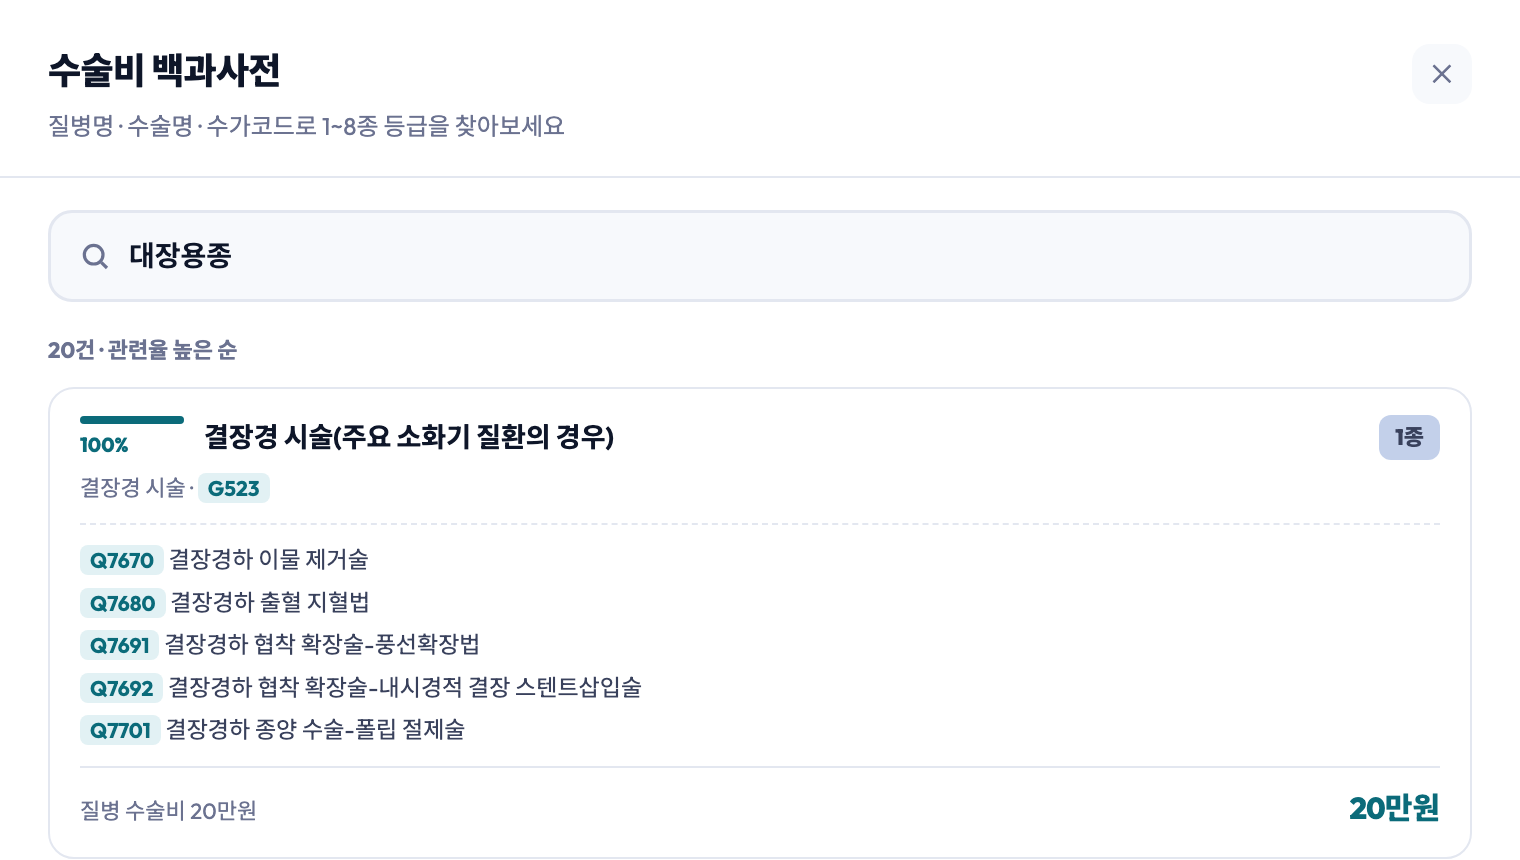
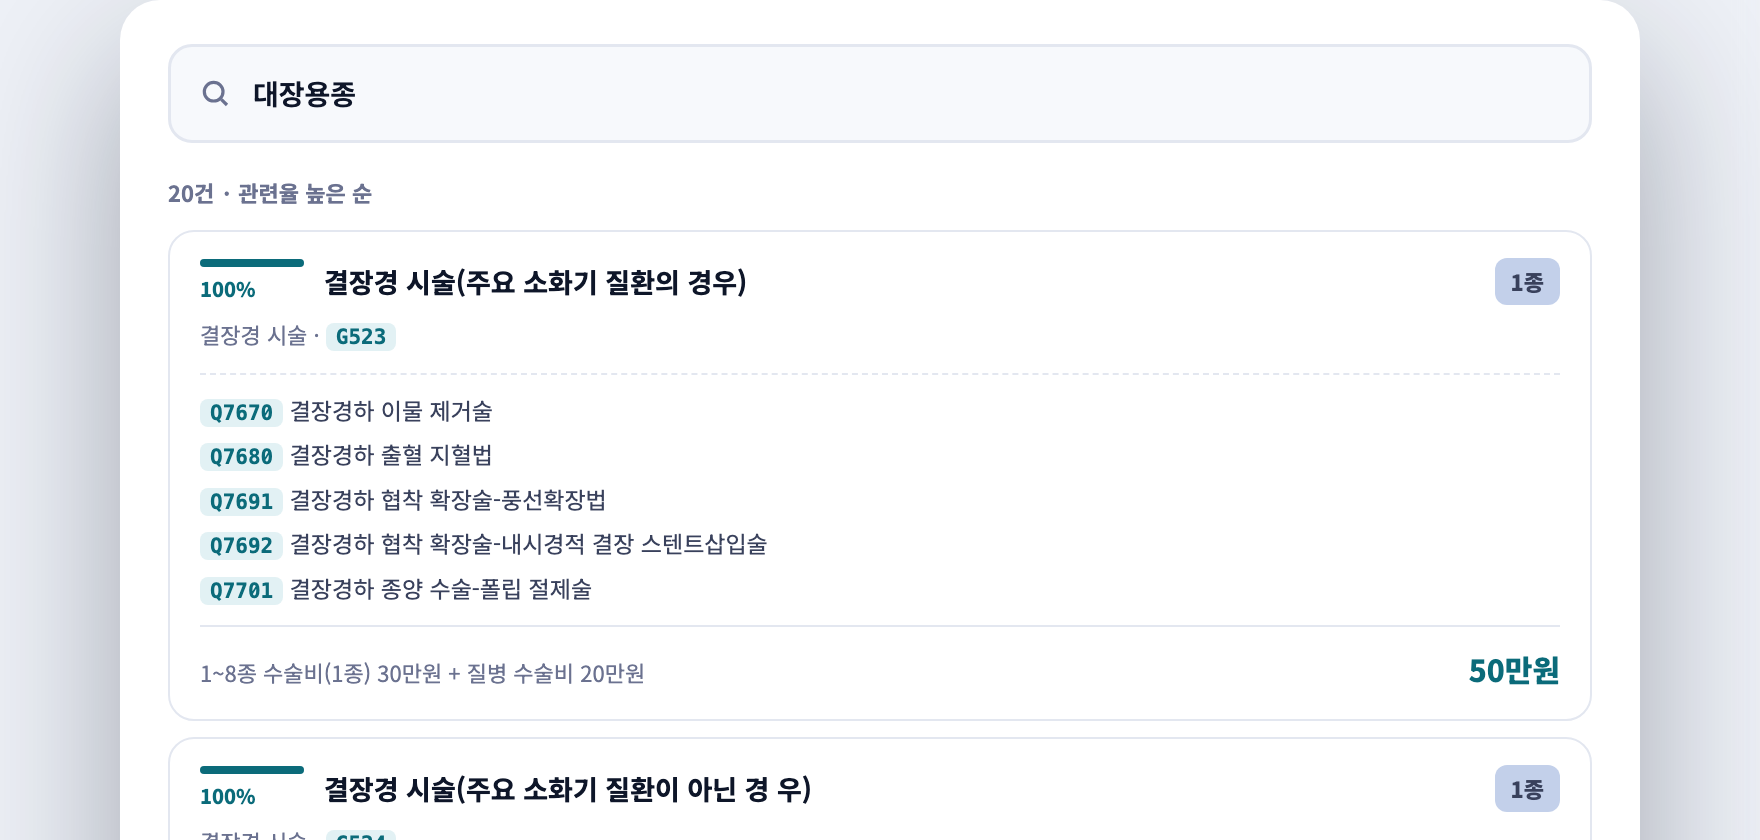
docs: 패치노트 v.0831 추가, 튜토리얼 뇌·심장/검색 섹션 갱신
패치노트
- v.0831 항목 신설(1~8종 수술 검색 출시 / 뇌·심장 카드 개편 / 인사이트·튜토리얼)
- LATEST 배지와 점프 pill을 v.0831로 이동, v.0826은 접힌 항목으로 전환
- CHANGELOG.md에 같은 내용을 기술 기준으로 정리

튜토리얼(about.html)
- 뇌·심장 섹션을 동심원 기준 설명에서 카드 레이아웃 기준으로 재작성
- 「1~8종 수술 검색」 섹션 신설 + 목차에 추가
- 스마트 가입제안서 카드의 뇌·심장/수술비 설명을 현재 화면에 맞게 수정

스크린샷
- cc_rings.png(동심원) 삭제 → cc_cards.png / cc_journey.png 신규 캡처
- dict_demo.png 재캡처: 옛 "수술비 백과사전" 제목이 남아 있었고,
  모달 머리말이 액자처럼 겹쳐 보여 검색창~결과 구간만 담도록 다시 찍음
  (제안서를 올린 상태의 계산 금액이 보이게)

Changed region(s): [[0.0, 0.0, 1.0, 1.0], [0.8349, 0.7738, 0.8967, 0.8357]]

diff --git a/patchnote.html b/patchnote.html
@@ -208,7 +208,8 @@
     <!-- JUMP PILLS -->
     <div class="jump-wrap">
       <div class="jump-inner">
-        <a class="jump-pill active" href="#v0826">v.0826</a>
+        <a class="jump-pill active" href="#v0831">v.0831</a>
+        <a class="jump-pill" href="#v0826">v.0826</a>
         <a class="jump-pill" href="#v0825">v.0825</a>
         <a class="jump-pill" href="#v0706">v.0706</a>
         <a class="jump-pill" href="#v0630">v.0630</a>
@@ -224,16 +225,122 @@
     <!-- TIMELINE -->
     <div class="timeline">
 
-      <!-- v.0826 -->
-      <div class="v-entry open latest-entry" id="v0826">
+      <!-- v.0831 -->
+      <div class="v-entry open latest-entry" id="v0831">
         <div class="v-dot latest"></div>
         <div class="v-card latest-card">
           <div class="v-header" onclick="toggleEntry(this.closest('.v-entry'))">
             <div class="v-header-left">
               <div class="v-meta">
+                <span class="v-ver">v.0831</span>
+                <span class="v-date">2026.08.31</span>
+                <span class="v-latest-badge">LATEST</span>
+              </div>
+              <div class="v-subtitle">"어느 담보에서 얼마가 나오는지, 카드마다 펼쳐서"</div>
+              <div class="v-summary">
+                <span class="tag tag-new">NEW</span>
+              </div>
+            </div>
+            <span class="v-chevron">▾</span>
+          </div>
+          <div class="v-body">
+
+            <div class="change-section">
+              <span class="cs-label">1~8종 수술 검색 출시</span>
+              <div class="change-list">
+                <div class="change-item">
+                  <span class="tag tag-new">NEW</span>
+                  <p class="change-text"><strong>상단에 &lsquo;1~8종 검색&rsquo; 버튼이 생겼어요</strong><br>
+                  수술비 목록에 없는 수술은 이제 직접 찾아보실 수 있습니다. 고객이 말한 병명을 그대로 넣으면 <strong>관련 수술과 수가코드, 몇 종인지</strong>가 나옵니다. 제안서를 올린 상태라면 <strong>그 고객 가입금액으로 계산한 금액</strong>까지 같이 붙어요. &lsquo;대장용종&rsquo; 한 단어로 결장경 시술(1종)과 폴립 절제술 코드가 한 번에 나옵니다.</p>
+                </div>
+                <div class="change-item">
+                  <span class="tag tag-new">NEW</span>
+                  <p class="change-text"><strong>근거는 약관 별표16 = KDRG입니다</strong><br>
+                  약관 2-109 제3조②에 <strong>별표16의 수술·시술 코드가 곧 KDRG 분류</strong>라고 적혀 있습니다. 그 대응표를 그대로 옮겨 왔기 때문에, 화면에 나온 등급을 약관에서 되짚어 확인하실 수 있어요.</p>
+                </div>
+                <div class="change-item">
+                  <span class="tag tag-improve">IMPROVE</span>
+                  <p class="change-text"><strong>정확히 안 맞아도 가까운 걸 보여드려요</strong><br>
+                  처음에는 딱 맞는 단어를 넣어야만 결과가 나와서, 조금만 달라도 <strong>&lsquo;검색 결과 없음&rsquo;</strong>이 떴습니다. 이제 비슷한 정도를 따져 <strong>가까운 항목을 대신 보여드립니다</strong>. 질병 TOP 30·수술 TOP 30으로 검증하면서 &lsquo;스텐트&rsquo;, &lsquo;협심증&rsquo;, &lsquo;하지정맥류&rsquo;처럼 자주 쓰는 말도 찾아가도록 동의어를 채웠어요.</p>
+                </div>
+                <div class="change-item">
+                  <span class="tag tag-new">NEW</span>
+                  <p class="change-text"><strong>면책 안내를 항상 띄워 둡니다</strong><br>
+                  참고용 자료라는 점과 함께, <strong>미용 목적·피임 목적·검사 및 진단 목적의 수술은 코드가 검색돼도 지급 대상이 아니라는</strong> 안내를 화면 하단에 고정해 뒀습니다. 목적이 애매한 시술은 약관 원문을 꼭 확인해 주세요.</p>
+                </div>
+              </div>
+            </div>
+
+            <div class="change-section">
+              <span class="cs-label">뇌·심장 화면 개편</span>
+              <div class="change-list">
+                <div class="change-item">
+                  <span class="tag tag-improve">IMPROVE</span>
+                  <p class="change-text"><strong>동심원을 걷어내고 카드로 바꿨어요</strong><br>
+                  포함 관계를 원으로 그리다 보니 정작 <strong>어느 담보에서 얼마가 나오는지</strong>가 잘 안 보였습니다. 이제 암 보장 화면처럼 카드로 펼칩니다. <strong>치료행위</strong>(수술·혈전용해·혈전제거)가 윗줄, <strong>질환별 진단비</strong>가 아랫줄이에요.</p>
+                </div>
+                <div class="change-item">
+                  <span class="tag tag-new">NEW</span>
+                  <p class="change-text"><strong>카드 안에 세부 담보를 그대로 폅니다</strong><br>
+                  큰 금액만 보고 오해하지 않도록, 특정치료비에서 얼마·통합치료비에서 얼마인지 카드 안에 줄줄이 적었습니다. 통합치료비는 <strong>연 한도와 보장주기</strong>까지 담보명 아래 붙였어요 — 수술은 <strong>매회보장</strong>, 혈전용해·혈전제거는 <strong>연 1회보장</strong>입니다.</p>
+                </div>
+                <div class="change-item">
+                  <span class="tag tag-new">NEW</span>
+                  <p class="change-text"><strong>뇌와 심장을 색으로 갈라 묶었어요</strong><br>
+                  진단비 카드를 <strong>파란 상자(뇌 계열)</strong>와 <strong>분홍 상자(심장 계열)</strong>로 나눠 담았습니다. 윗줄 순환계 치료 담보는 이 화면에서 가장 넓게 받아내는 축이라 <strong>금빛 테두리</strong>로 세웠고요. 미가입 담보는 회색으로 남겨 무엇이 비어 있는지도 같이 보입니다.</p>
+                </div>
+                <div class="change-item">
+                  <span class="tag tag-improve">IMPROVE</span>
+                  <p class="change-text"><strong>중환자실은 치료행위 옆으로 옮겼어요</strong><br>
+                  중환자실 치료비는 수술·혈전용해·혈전제거에 딸려 나오는 담보라, 따로 떨어져 있는 것보다 <strong>같은 줄 옆칸</strong>에 붙는 게 읽기 편합니다. 절반 폭으로 넣어 네 칸이 한 줄에 들어갑니다.</p>
+                </div>
+                <div class="change-item">
+                  <span class="tag tag-improve">IMPROVE</span>
+                  <p class="change-text"><strong>치료 경로는 해당 담보가 있을 때만 나와요</strong><br>
+                  검사부터 재활까지 이어지는 경로는 <strong>순환계 통합치료비</strong> 가입자에게만 해당됩니다. 담보가 없으면 이 줄은 아예 표시되지 않아요.</p>
+                </div>
+                <div class="change-item">
+                  <span class="tag tag-improve">IMPROVE</span>
+                  <p class="change-text"><strong>겹치던 표를 하나로 합쳤어요</strong><br>
+                  진단비 막대그래프와 수술비 구성 표가 위 카드와 같은 내용을 반복하고 있었습니다. 둘을 걷어내고 <strong>「보장금액 합계」</strong> 하나로 정리했어요. 이 설계에서 한 번의 사고로 검토 가능한 금액만 남깁니다.</p>
+                </div>
+                <div class="change-item">
+                  <span class="tag tag-fix">FIX</span>
+                  <p class="change-text"><strong>질환 전용 수술비를 놓치지 않아요</strong><br>
+                  뇌혈관질환 수술비처럼 <strong>특정 질환에만 붙는 치료·수술비</strong>가 어디에도 표시되지 않고 있었습니다. 이제 해당 진단비 카드에 <strong>&lsquo;이 질환 전용 치료·수술비 OOO 별도&rsquo;</strong>로 적어드립니다.</p>
+                </div>
+              </div>
+            </div>
+
+            <div class="change-section">
+              <span class="cs-label">인사이트 · 튜토리얼</span>
+              <div class="change-list">
+                <div class="change-item">
+                  <span class="tag tag-new">NEW</span>
+                  <p class="change-text"><strong>인사이트에 수술비 · 뇌심 편을 더했어요</strong><br>
+                  <strong>1~8종과 기존 수술비의 차이</strong>(흡인·천자 같은 시술류까지 보상하는 &lsquo;수술의 정의&rsquo; 차이)와, <strong>혈전용해 · 혈전제거 · 수술</strong>이 각각 어떤 치료인지 정리했습니다. 기계적 혈전제거술 종류와 에크모 같은 중환자실 치료도 함께 담았어요.</p>
+                </div>
+                <div class="change-item">
+                  <span class="tag tag-improve">IMPROVE</span>
+                  <p class="change-text"><strong>튜토리얼 화면과 사진을 새로 찍었어요</strong><br>
+                  뇌·심장 설명이 예전 동심원 기준이라 지금 화면과 달랐습니다. 카드 레이아웃으로 다시 쓰고 사진도 새로 찍었어요. <strong>1~8종 수술 검색</strong> 사용법도 튜토리얼에 새 장으로 들어갔습니다.</p>
+                </div>
+              </div>
+            </div>
+
+          </div>
+        </div>
+      </div>
+
+      <!-- v.0826 -->
+      <div class="v-entry" id="v0826">
+        <div class="v-dot"></div>
+        <div class="v-card">
+          <div class="v-header" onclick="toggleEntry(this.closest('.v-entry'))">
+            <div class="v-header-left">
+              <div class="v-meta">
                 <span class="v-ver">v.0826</span>
                 <span class="v-date">2026.08.26</span>
-                <span class="v-latest-badge">LATEST</span>
               </div>
               <div class="v-subtitle">"뇌랑 심장, 어디까지 나오는지 한 장에"</div>
               <div class="v-summary">

diff --git a/about.html b/about.html
@@ -472,12 +472,12 @@
       <div class="tabcard on fu" style="transition-delay:.07s">
         <span class="tabpill">NEW</span>
         <p class="tabt">수술비</p>
-        <p class="tabd">많이 하는 수술 30종이 각각 얼마까지 검토 가능한지 금액으로 나옵니다.</p>
+        <p class="tabd">많이 하는 수술 32종이 각각 얼마까지 검토 가능한지 금액으로 나옵니다. 목록에 없는 수술은 <strong>1~8종 검색</strong>으로 찾습니다.</p>
       </div>
       <div class="tabcard on fu" style="transition-delay:.14s">
         <span class="tabpill">NEW</span>
         <p class="tabt">뇌·심장</p>
-        <p class="tabd">뇌와 심장을 동심원으로 그려, 어느 질환이 얼마를 덮는지 한눈에 보여줍니다.</p>
+        <p class="tabd">치료행위와 질환별 진단비를 카드로 갈라, 어느 담보에서 얼마가 나오는지 펼쳐 보여줍니다.</p>
       </div>
     </div>
   </section>
@@ -520,41 +520,95 @@
     </div>
   </section>
 
-  <!-- 뇌심장 -->
-  <section class="section fu" id="s-circ">
-    <span class="eyebrow">BRAIN &amp; HEART</span>
-    <h2 class="stitle">뇌와 심장은,<br>넓을수록 좋은 보장입니다</h2>
+  <!-- 1~8종 수술 검색 -->
+  <section class="section fu" id="s-dict">
+    <span class="eyebrow">SEARCH</span>
+    <h2 class="stitle">목록에 없는 수술은,<br>직접 찾아보세요</h2>
     <p class="slead">
-      뇌출혈 ⊂ 뇌졸중 ⊂ 뇌혈관질환. 급성심근경색 ⊂ 허혈성심장질환.
-      말로 설명하면 어려운 포함 관계를 동심원으로 그려, 바깥 고리가 넓을수록 좋다는 걸 눈으로 보여줍니다.
+      상단 <strong>1~8종 검색</strong>을 누르면 검색창이 열립니다.
+      고객이 말한 병명 그대로 넣으면 관련 수술과 <strong>수가코드 · 몇 종인지</strong>가 나오고,
+      제안서를 올린 상태라면 <strong>그 고객 가입금액으로 계산한 금액</strong>까지 함께 붙습니다.
     </p>
 
     <div class="shotwrap">
-      <div class="shot"><img src="ABOUT/cc_rings.png" alt="뇌·심장 한눈에 보기 — 뇌와 심장 모양 동심원과 치료 행위별 금액"></div>
-      <p class="shotcap">뇌는 뇌 모양으로, 심장은 하트 모양으로. 각 고리 안에 검토 가능한 최대 금액이 들어갑니다.</p>
+      <div class="shot"><img src="ABOUT/dict_demo.png" alt="1~8종 수술 검색 — ‘대장용종’ 검색 결과와 수가코드, 등급, 금액"></div>
+      <p class="shotcap">‘대장용종’ 한 단어로 결장경 시술(1종)과 폴립 절제술 수가코드, 계산된 50만원까지.</p>
     </div>
 
     <div class="plist">
       <div class="pitem fu">
         <span class="pnum">1</span>
-        <p class="ptxt"><b>가장 바깥 고리 = 최대 금액</b> — 그 질환으로 치료·수술받았을 때
-        검토 가능한 금액(치료비 + 수술비)입니다. 안쪽 고리는 전용 담보가 있을 때만 더해집니다.</p>
+        <p class="ptxt"><b>고객이 말한 그대로</b> — ‘대장용종’, ‘디스크’, ‘스텐트’처럼 흔히 쓰는 말도
+        약관 용어로 바꿔 찾습니다. 수가코드(Q7701)를 직접 넣어도 됩니다.</p>
       </div>
       <div class="pitem fu" style="transition-delay:.06s">
         <span class="pnum">2</span>
-        <p class="ptxt"><b>특정 순환계 질환 치료비를 강조</b> — 41개 질병코드를 통째로 덮는 가장 넓은 담보입니다.
-        옆의 <strong>?</strong>를 누르면 어떤 코드가 포함되는지 전부 확인할 수 있습니다.</p>
+        <p class="ptxt"><b>관련율로 판단하세요</b> — 같은 시술이 여러 분류에 걸칠 수 있어서,
+        검색어에 가까운 순으로 <strong>관련율</strong>을 붙여 정렬합니다.
+        정확히 맞는 항목이 없어도 <strong>가까운 것들을 대신 보여드립니다</strong>.</p>
       </div>
       <div class="pitem fu" style="transition-delay:.12s">
         <span class="pnum">3</span>
-        <p class="ptxt"><b>수술 · 혈전용해 · 혈전제거</b> — 치료 행위별로 얼마가 나오는지 카드로 표시하고,
-        수술비 계열(질병수술비 · 1~5종 · N대질병)을 합산해 함께 보여줍니다.</p>
+        <p class="ptxt"><b>근거는 KDRG</b> — 약관 별표16의 수술·시술 코드가 곧 KDRG 분류입니다.
+        그 대응표를 그대로 옮겨 왔기 때문에, 화면의 등급을 약관에서 되짚어 확인할 수 있습니다.</p>
+      </div>
+      <div class="pitem fu" style="transition-delay:.18s">
+        <span class="pnum">4</span>
+        <p class="ptxt"><b>참고용입니다</b> — 실제 지급은 가입 시점의 약관과 KDRG 버전, 급여 여부에 따라 달라집니다.
+        <strong>미용 · 피임 · 검사 목적의 수술은 코드가 검색돼도 지급 대상이 아닙니다.</strong>
+        화면 하단에도 같은 안내를 항상 띄워 둡니다.</p>
+      </div>
+    </div>
+  </section>
+
+  <!-- 뇌심장 -->
+  <section class="section fu" id="s-circ">
+    <span class="eyebrow">BRAIN &amp; HEART</span>
+    <h2 class="stitle">뇌와 심장은,<br>담보 한 장씩 펼쳐 봅니다</h2>
+    <p class="slead">
+      순환계는 담보 이름이 서로 닮아 어느 게 어디서 나오는지 헷갈립니다.
+      그래서 <strong>치료행위</strong>와 <strong>질환별 진단비</strong>를 카드로 갈라 놓고,
+      카드마다 그 금액을 이루는 <strong>세부 담보를 그대로 펼쳐</strong> 보여드립니다.
+    </p>
+
+    <div class="shotwrap">
+      <div class="shot"><img src="ABOUT/cc_cards.png" alt="뇌·심장 보장 구조 — 치료행위 카드 4개와 뇌 계열·심장 계열로 묶인 진단비 카드"></div>
+      <p class="shotcap">윗줄은 금빛 테두리로 세운 순환계 치료 담보, 아랫줄은 뇌 계열(파랑) · 심장 계열(분홍)로 묶은 진단비입니다.</p>
+    </div>
+
+    <div class="plist">
+      <div class="pitem fu">
+        <span class="pnum">1</span>
+        <p class="ptxt"><b>치료행위별로 한 카드씩</b> — <strong>수술 · 혈전용해 · 혈전제거</strong>는
+        같은 사고라도 금액이 달라서 합치지 않았습니다. 옆에 <strong>중환자실 치료비</strong>를
+        절반 폭으로 붙여, 네 칸이 한 줄에 들어옵니다.</p>
+      </div>
+      <div class="pitem fu" style="transition-delay:.06s">
+        <span class="pnum">2</span>
+        <p class="ptxt"><b>금액의 출처가 카드 안에</b> — 특정치료비에서 얼마, 통합치료비에서 얼마인지
+        줄줄이 적혀 있습니다. 통합치료비는 <strong>연 한도와 보장주기</strong>(수술은 매회, 혈전용해·혈전제거는 연 1회)까지
+        담보명 아래 붙여, 큰 금액만 보고 오해하는 일이 없게 했습니다.</p>
+      </div>
+      <div class="pitem fu" style="transition-delay:.12s">
+        <span class="pnum">3</span>
+        <p class="ptxt"><b>뇌와 심장을 색으로 갈라</b> — 진단비 카드를 파란 상자(뇌 계열)와
+        분홍 상자(심장 계열)로 묶었습니다. <strong>미가입 담보는 회색</strong>으로 남겨두어,
+        무엇이 비어 있는지도 같이 보입니다.</p>
       </div>
       <div class="pitem fu" style="transition-delay:.18s">
         <span class="pnum">4</span>
         <p class="ptxt"><b>놓치기 쉬운 구멍도 알려드립니다</b> — 예를 들어 뇌졸중 분류표에는 I64(상세불명 뇌졸중)가
         없습니다. 이런 함정은 화면에 경고로 띄웁니다.</p>
       </div>
+    </div>
+
+    <div class="shotwrap">
+      <div class="shot"><img src="ABOUT/cc_journey.png" alt="치료 경로 — 검사·약물·치료·수술·재활 5단계 지급 한도"></div>
+      <p class="shotcap">
+        <strong>순환계 통합치료비</strong>에 가입돼 있을 때만 나오는 화면입니다.
+        MRI·CT부터 항응고제, 에크모, 전문재활치료까지 검사에서 재활까지 이어지는 금액을 약관 지급표 그대로 폅니다.
+        해당 담보가 없으면 이 줄은 아예 표시되지 않습니다.
+      </p>
     </div>
   </section>
 
@@ -787,6 +841,7 @@
     { id: 's-why',      label: '왜 이 도구인가' },
     { id: 's-smart',    label: '스마트 가입제안서 OPEN' },
     { id: 's-surgery',  label: '수술비 한눈에 보기' },
+    { id: 's-dict',     label: '1~8종 수술 검색' },
     { id: 's-circ',     label: '뇌·심장 한눈에 보기' },
     { id: 's-pdf',      label: '전체 PDF 저장' },
     { id: 's-how',      label: '사용 방법 (3 Step)' },

diff --git a/js/surgery_dict.js b/js/surgery_dict.js
@@ -325,7 +325,7 @@ function dictTutorialHtml() {
         </ol>
         <div class="sd-tut-shot">
           <img src="ABOUT/dict_demo.png" alt="‘대장용종’으로 검색한 결과 예시">
-          <span>‘대장용종’ 검색 — 결장경 시술(1종)과 폴립 절제술 수가코드가 함께 나옵니다.</span>
+          <span>‘대장용종’ 검색 — 결장경 시술(1종)과 폴립 절제술 수가코드, 그리고 그 고객 가입금액으로 계산한 금액까지.</span>
         </div>
         <div class="sd-quick">
           <span>바로 해보기</span>

diff --git a/index.html b/index.html
@@ -840,7 +840,7 @@
     <script src="js/circulatory_renderer.js?v=20260831g"></script>
     <script src="js/surgery_renderer.js?v=20260826f"></script>
     <script src="js/surgery_dict_data.js?v=20260826a"></script>
-    <script src="js/surgery_dict.js?v=20260826d"></script>
+    <script src="js/surgery_dict.js?v=20260831a"></script>
     <script src="js/ui_renderer.js?v=20260826p"></script>
     <script src="js/main.js?v=20260826a"></script>
 

diff --git a/CHANGELOG.md b/CHANGELOG.md
@@ -2,6 +2,16 @@
 
 프로젝트의 주요 변경 사항 및 업데이트 내역입니다.
 
+## [2026-08-31] 1~8종 수술 검색 · 뇌·심장 카드 개편
+- **기능 추가**: `1~8종 수술 검색` 모달. 질병명·수술명·수가코드로 검색하면 관련 수술과 ADRG/수가코드, 1~8종 등급, 제안서 업로드 상태에서는 가입금액 기준 계산액까지 표시. 근거는 약관 2-109 제3조②(별표16 수술·시술 코드 = KDRG ADRG).
+- **기능 추가**: 검색 결과가 없을 때 bigram Dice 유사도로 근접 항목을 제시하는 fuzzy 폴백. 질병 TOP 30 / 수술 TOP 30 회귀 테스트로 검증하고 동의어 보강.
+- **기능 추가**: 모달 하단 고정 면책 안내(참고용, 미용·피임·검사 목적 수술 지급 제외).
+- **UI 개편**: 뇌·심장 동심원 → 카드 그리드. 치료행위(수술·혈전용해·혈전제거) + 중환자실 치료비를 한 줄(`2fr 2fr 2fr 1fr`)에 배치하고 금빛 테두리로 강조. 질환별 진단비는 뇌 계열(파랑) / 심장 계열(분홍) 상자로 분리.
+- **기능 추가**: 카드 안에 금액을 구성하는 세부 담보를 전개. 통합치료비 행에는 연 한도와 보장주기(수술=매회 / 혈전용해·혈전제거=연 1회) 병기.
+- **기능 추가**: 질환 전용 치료·수술비(예: `뇌혈관질환 수술비`)를 해당 진단비 카드에 별도 표기.
+- **정리**: 카드와 중복되던 진단비 막대그래프·수술비 구성 표를 제거하고 「보장금액 합계」로 통합. 동심원 SVG 관련 JS/CSS 삭제.
+- **문서**: 튜토리얼(about.html) 뇌·심장 섹션 재작성 및 스크린샷 재캡처, `1~8종 수술 검색` 섹션 신설.
+
 ## [2026-08-26] 뇌·심장(순환계) 한눈에 보기
 - **기능 추가**: 결과 화면에 `뇌·심장` 토글(3번째 탭) 도입. 삼성화재 제안서에서 순환계 담보(`kind:'circulatory'`)가 감지될 때만 노출.
 - **기능 추가**: 뇌·심장 동심원. 뇌출혈 ⊂ 뇌졸중 ⊂ 뇌혈관질환, 급성심근경색 ⊂ 허혈성심장질환 포함관계를 원 크기로 표현하고 가입금액을 원 안에 표기. 부정맥·특정3대심장질환은 별개 집합이므로 작은 하트로 분리.
